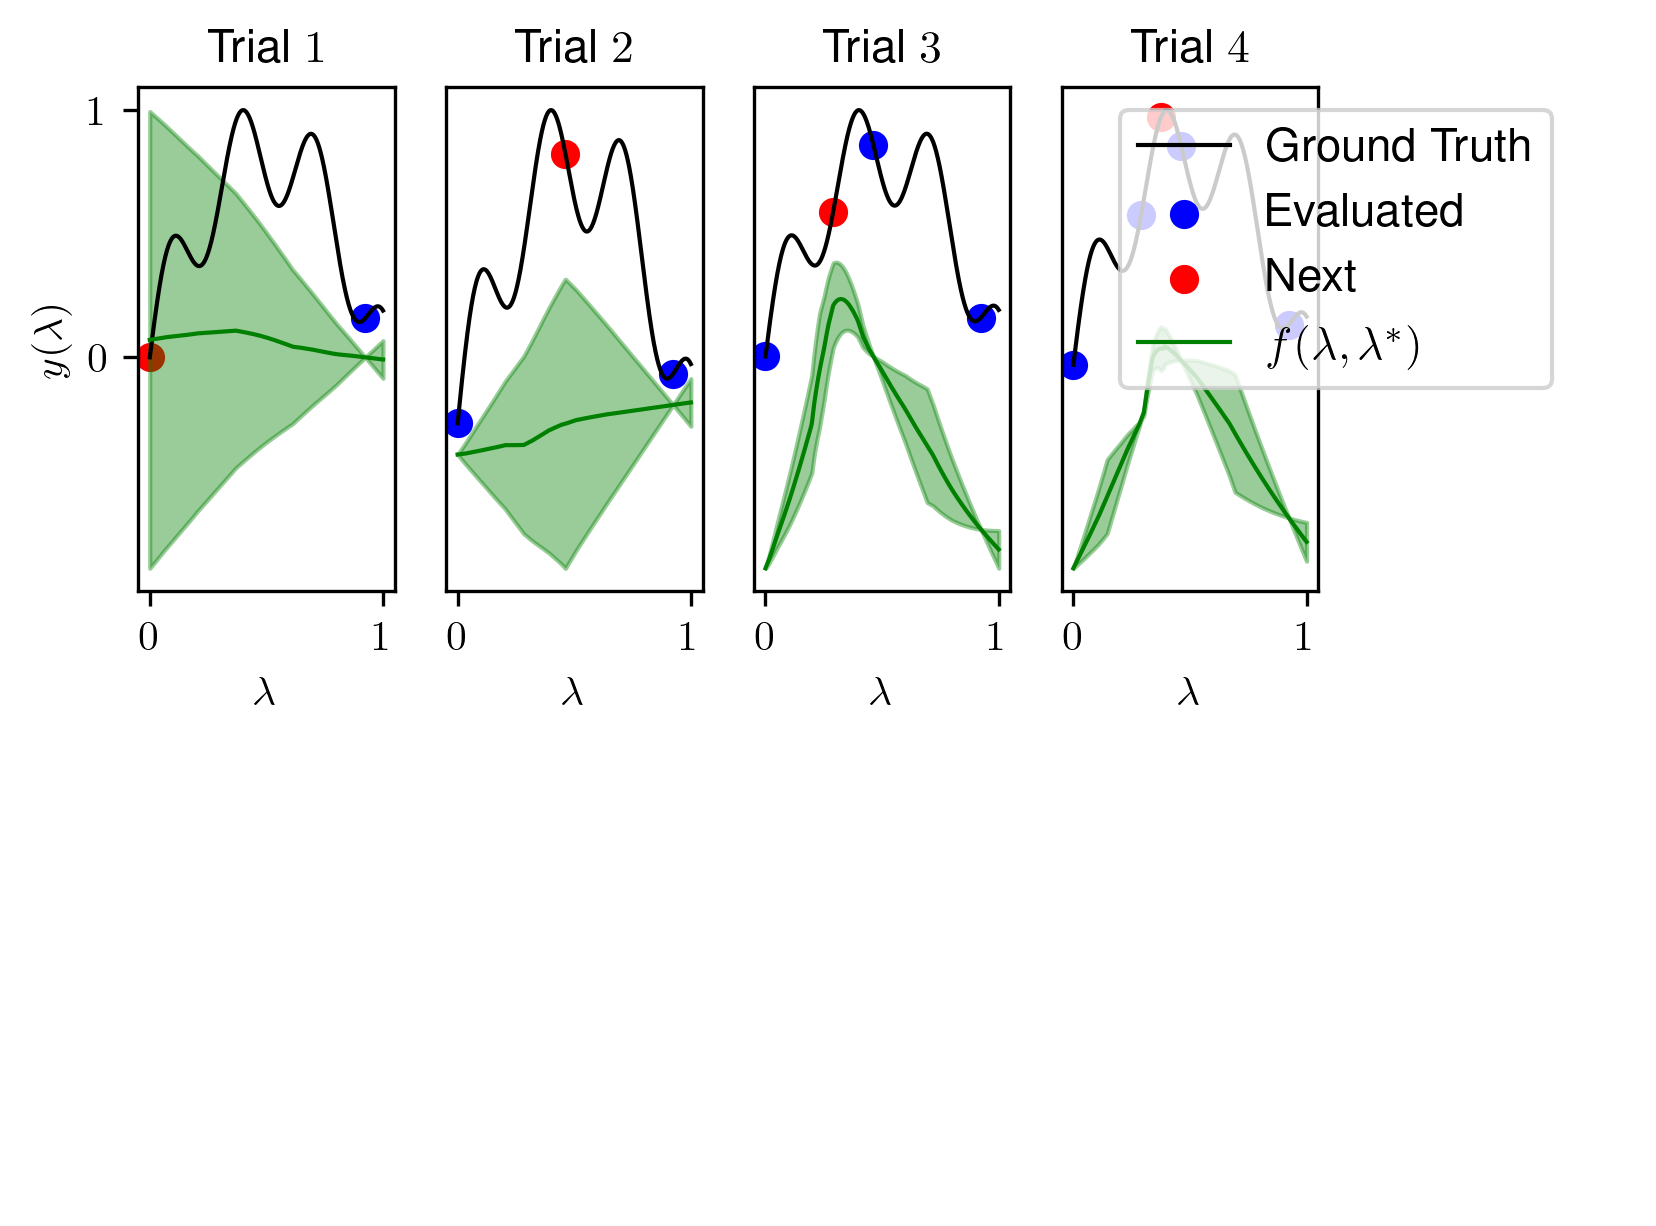
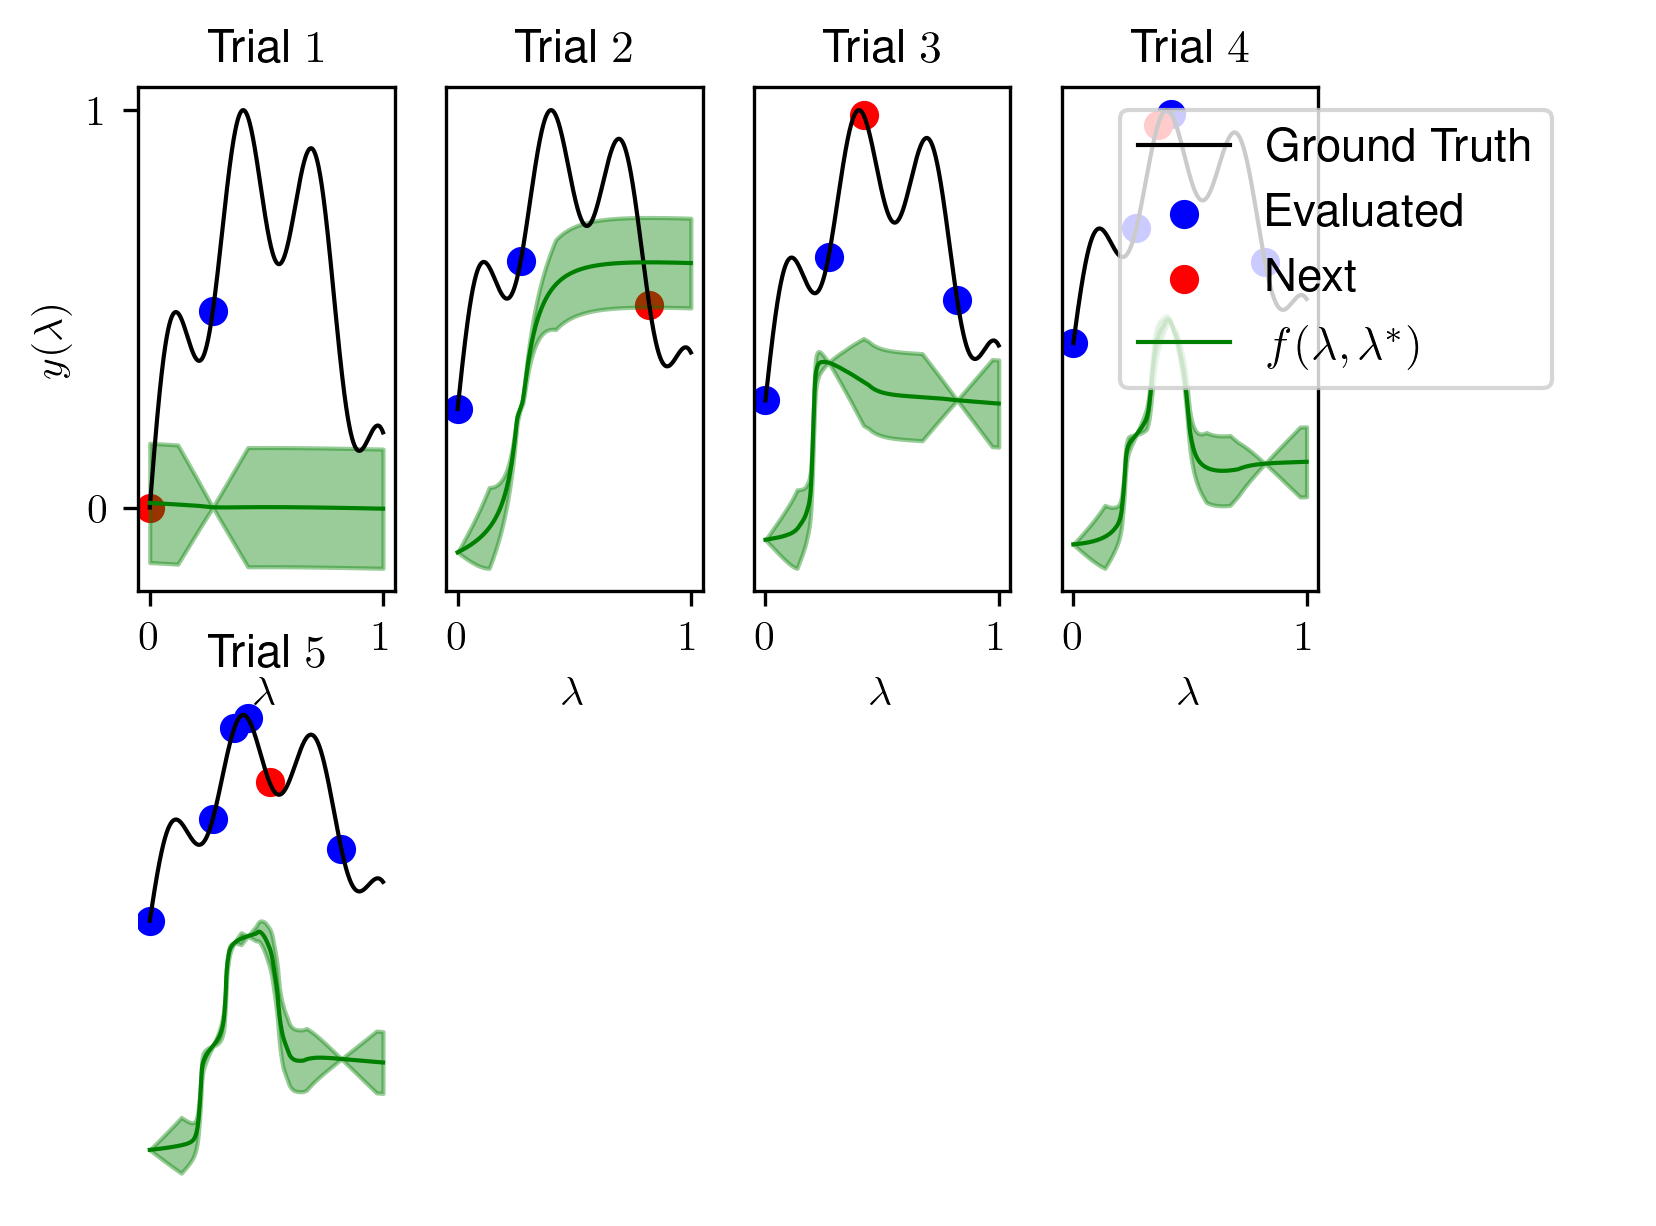
working version

diff --git a/poc/main_poc.py b/poc/main_poc.py
@@ -16,9 +16,9 @@ initial_design_idxs = random.sample(range(num_evals), num_initial_observations)
 #initial_design_idxs = [550]
 
 # create an smbo method
-config = {'is_rank_version': True, 'eta': 0.01, 'optim_iters': 300, 'train_batch_size': 30,
-          'acquisition_batch_size': 1000, 'log_iters': 300, 'hidden_layers_units': [16, 16, 16, 16],
-          'use_batch_norm': False, 'use_dropout': False, 'dropout_rate': 0.0, 'beta': 3.0}
+config = {'is_rank_version': True, 'eta': 0.01, 'optim_iters': 3000, 'train_batch_size': 30,
+          'acquisition_batch_size': 1000, 'log_iters': 1000, 'hidden_layers_units': [16, 16, 16, 16, 16],
+          'use_batch_norm': False, 'use_dropout': True, 'dropout_rate': 0.1, 'beta': 3.0}
 
 nn_bo = NeuralNetworkBOSynth(config=config)
 

diff --git a/methods/nn_bo_synth.py b/methods/nn_bo_synth.py
@@ -195,7 +195,7 @@ class NeuralNetworkBOSynth():
         #D = self.alpha*(np.tanh(self.gamma * D))
         # compute synthetic uncertainty
         y_std = np.min(D, axis=1).astype(float)
-
+        y_std = np.clip(y_std, 0.0, 0.15)
 
         return y_mean, y_std
 
